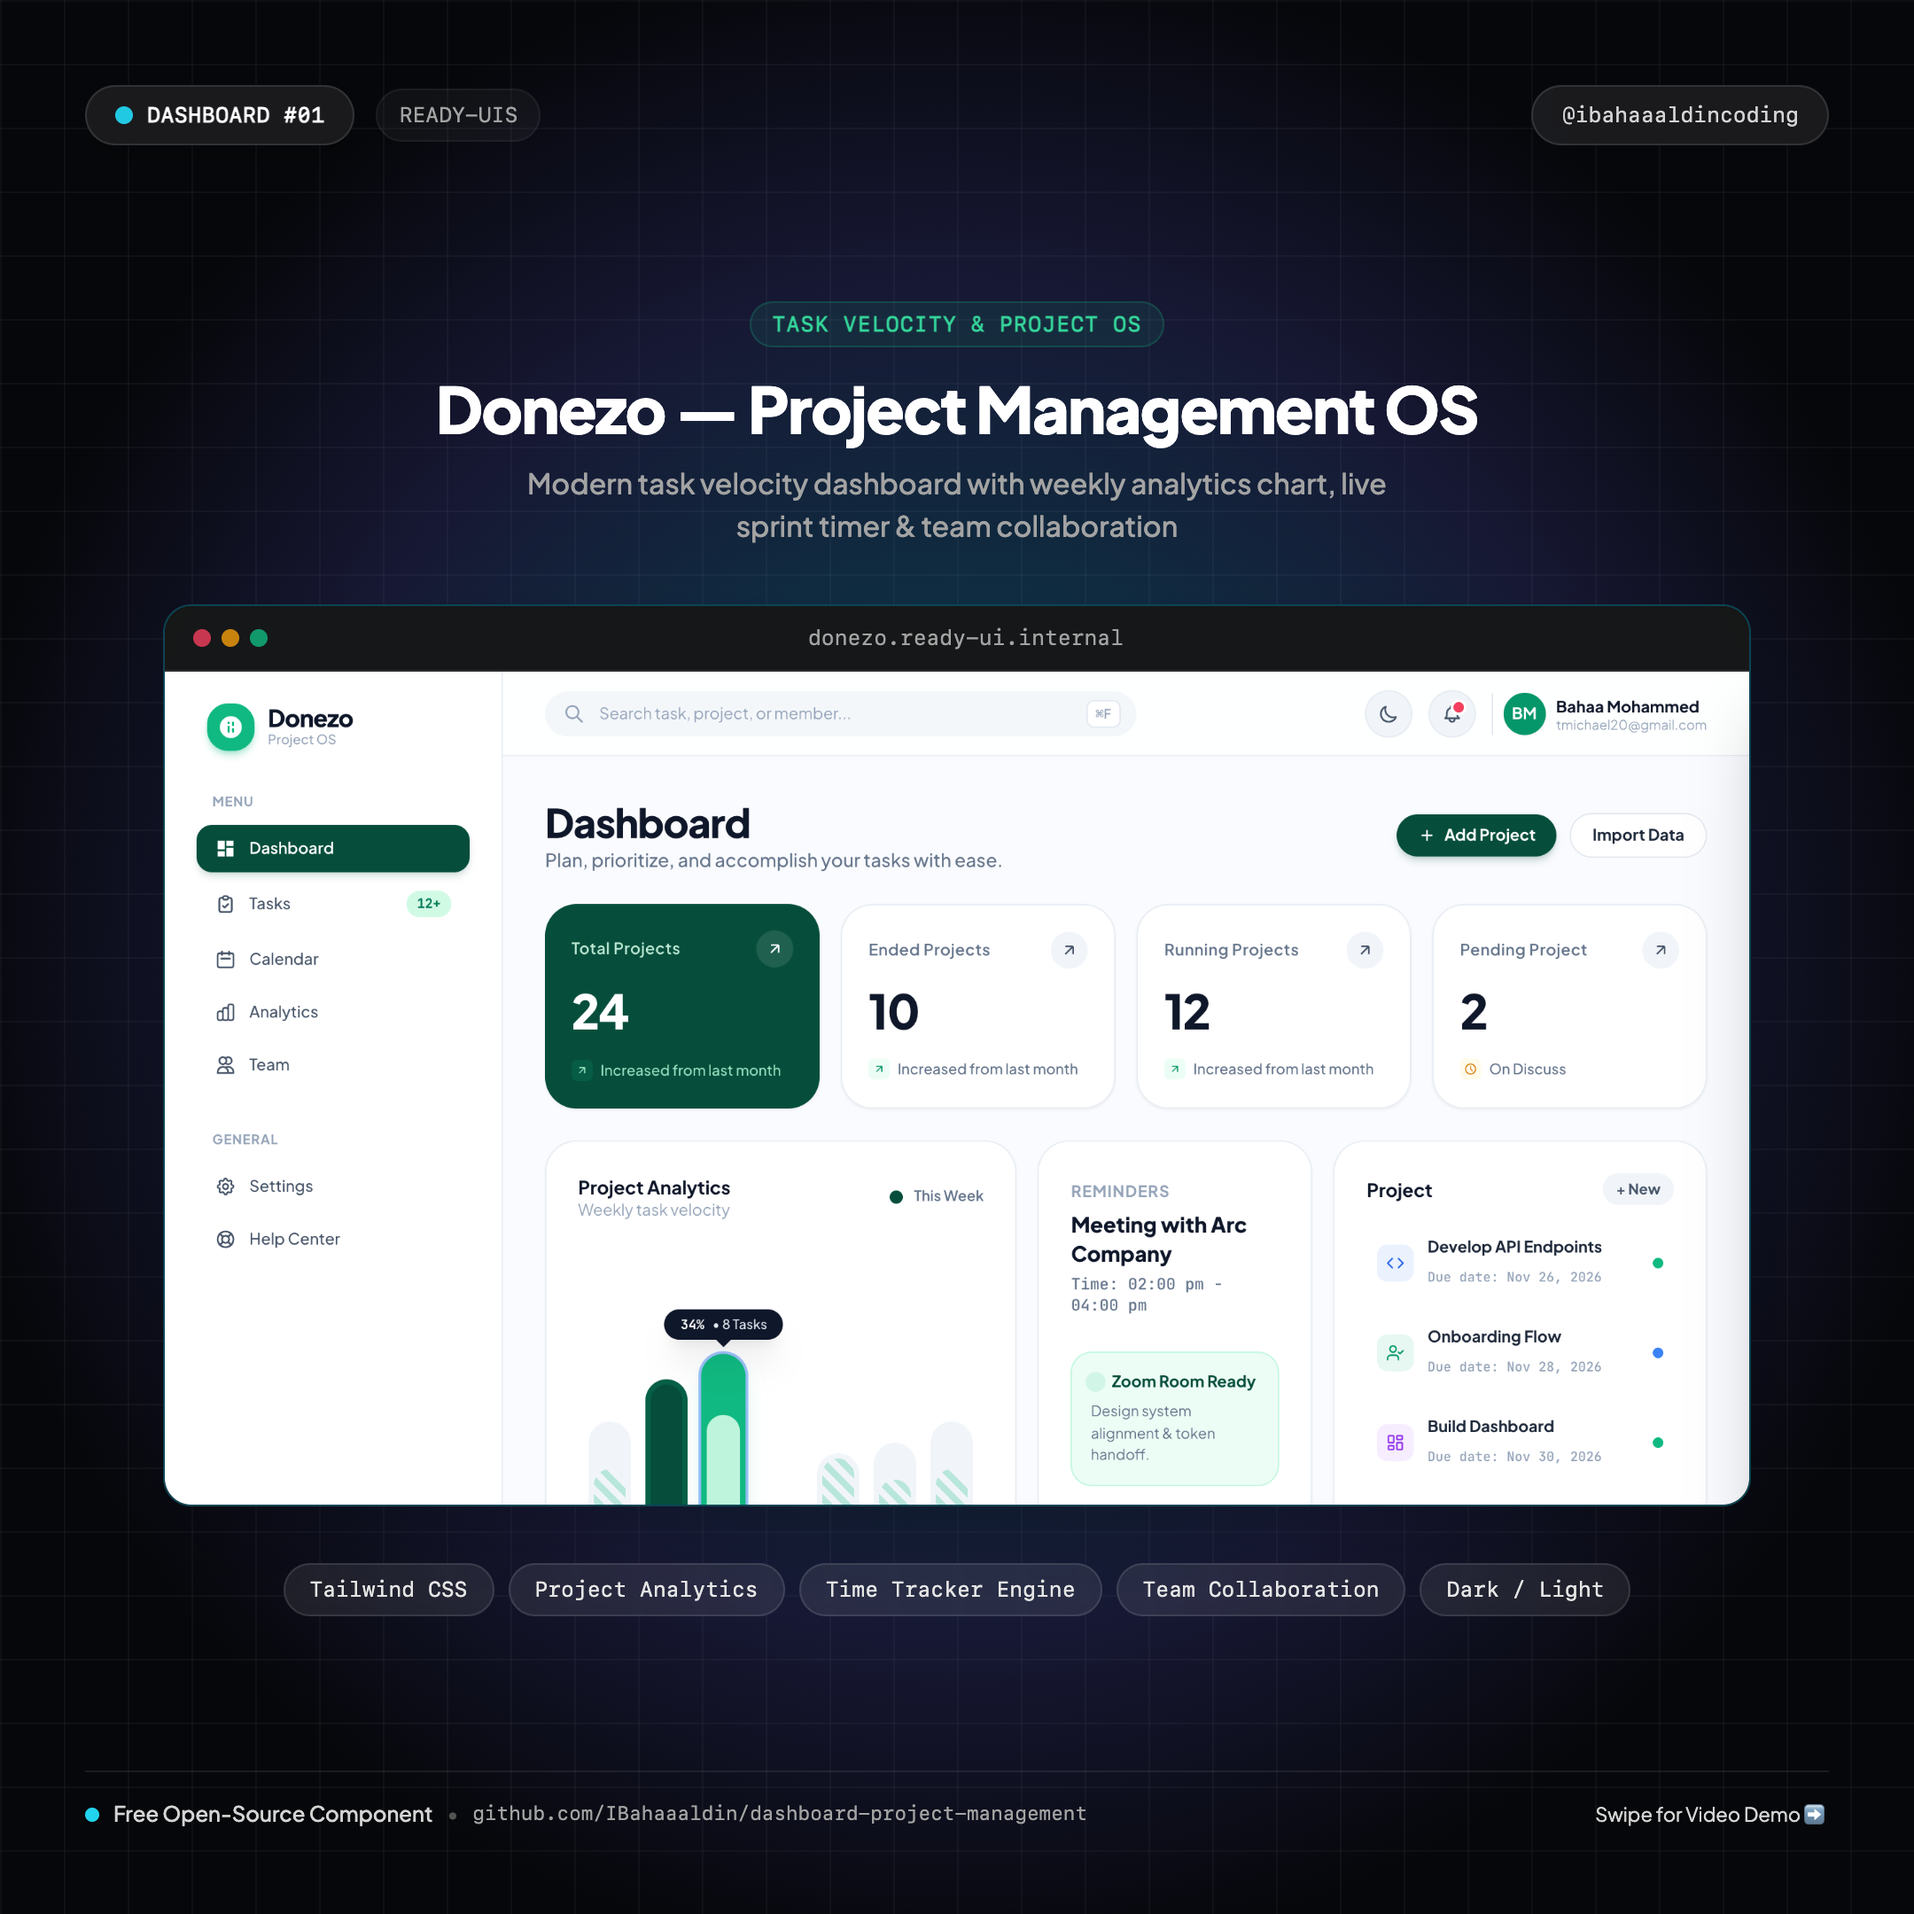
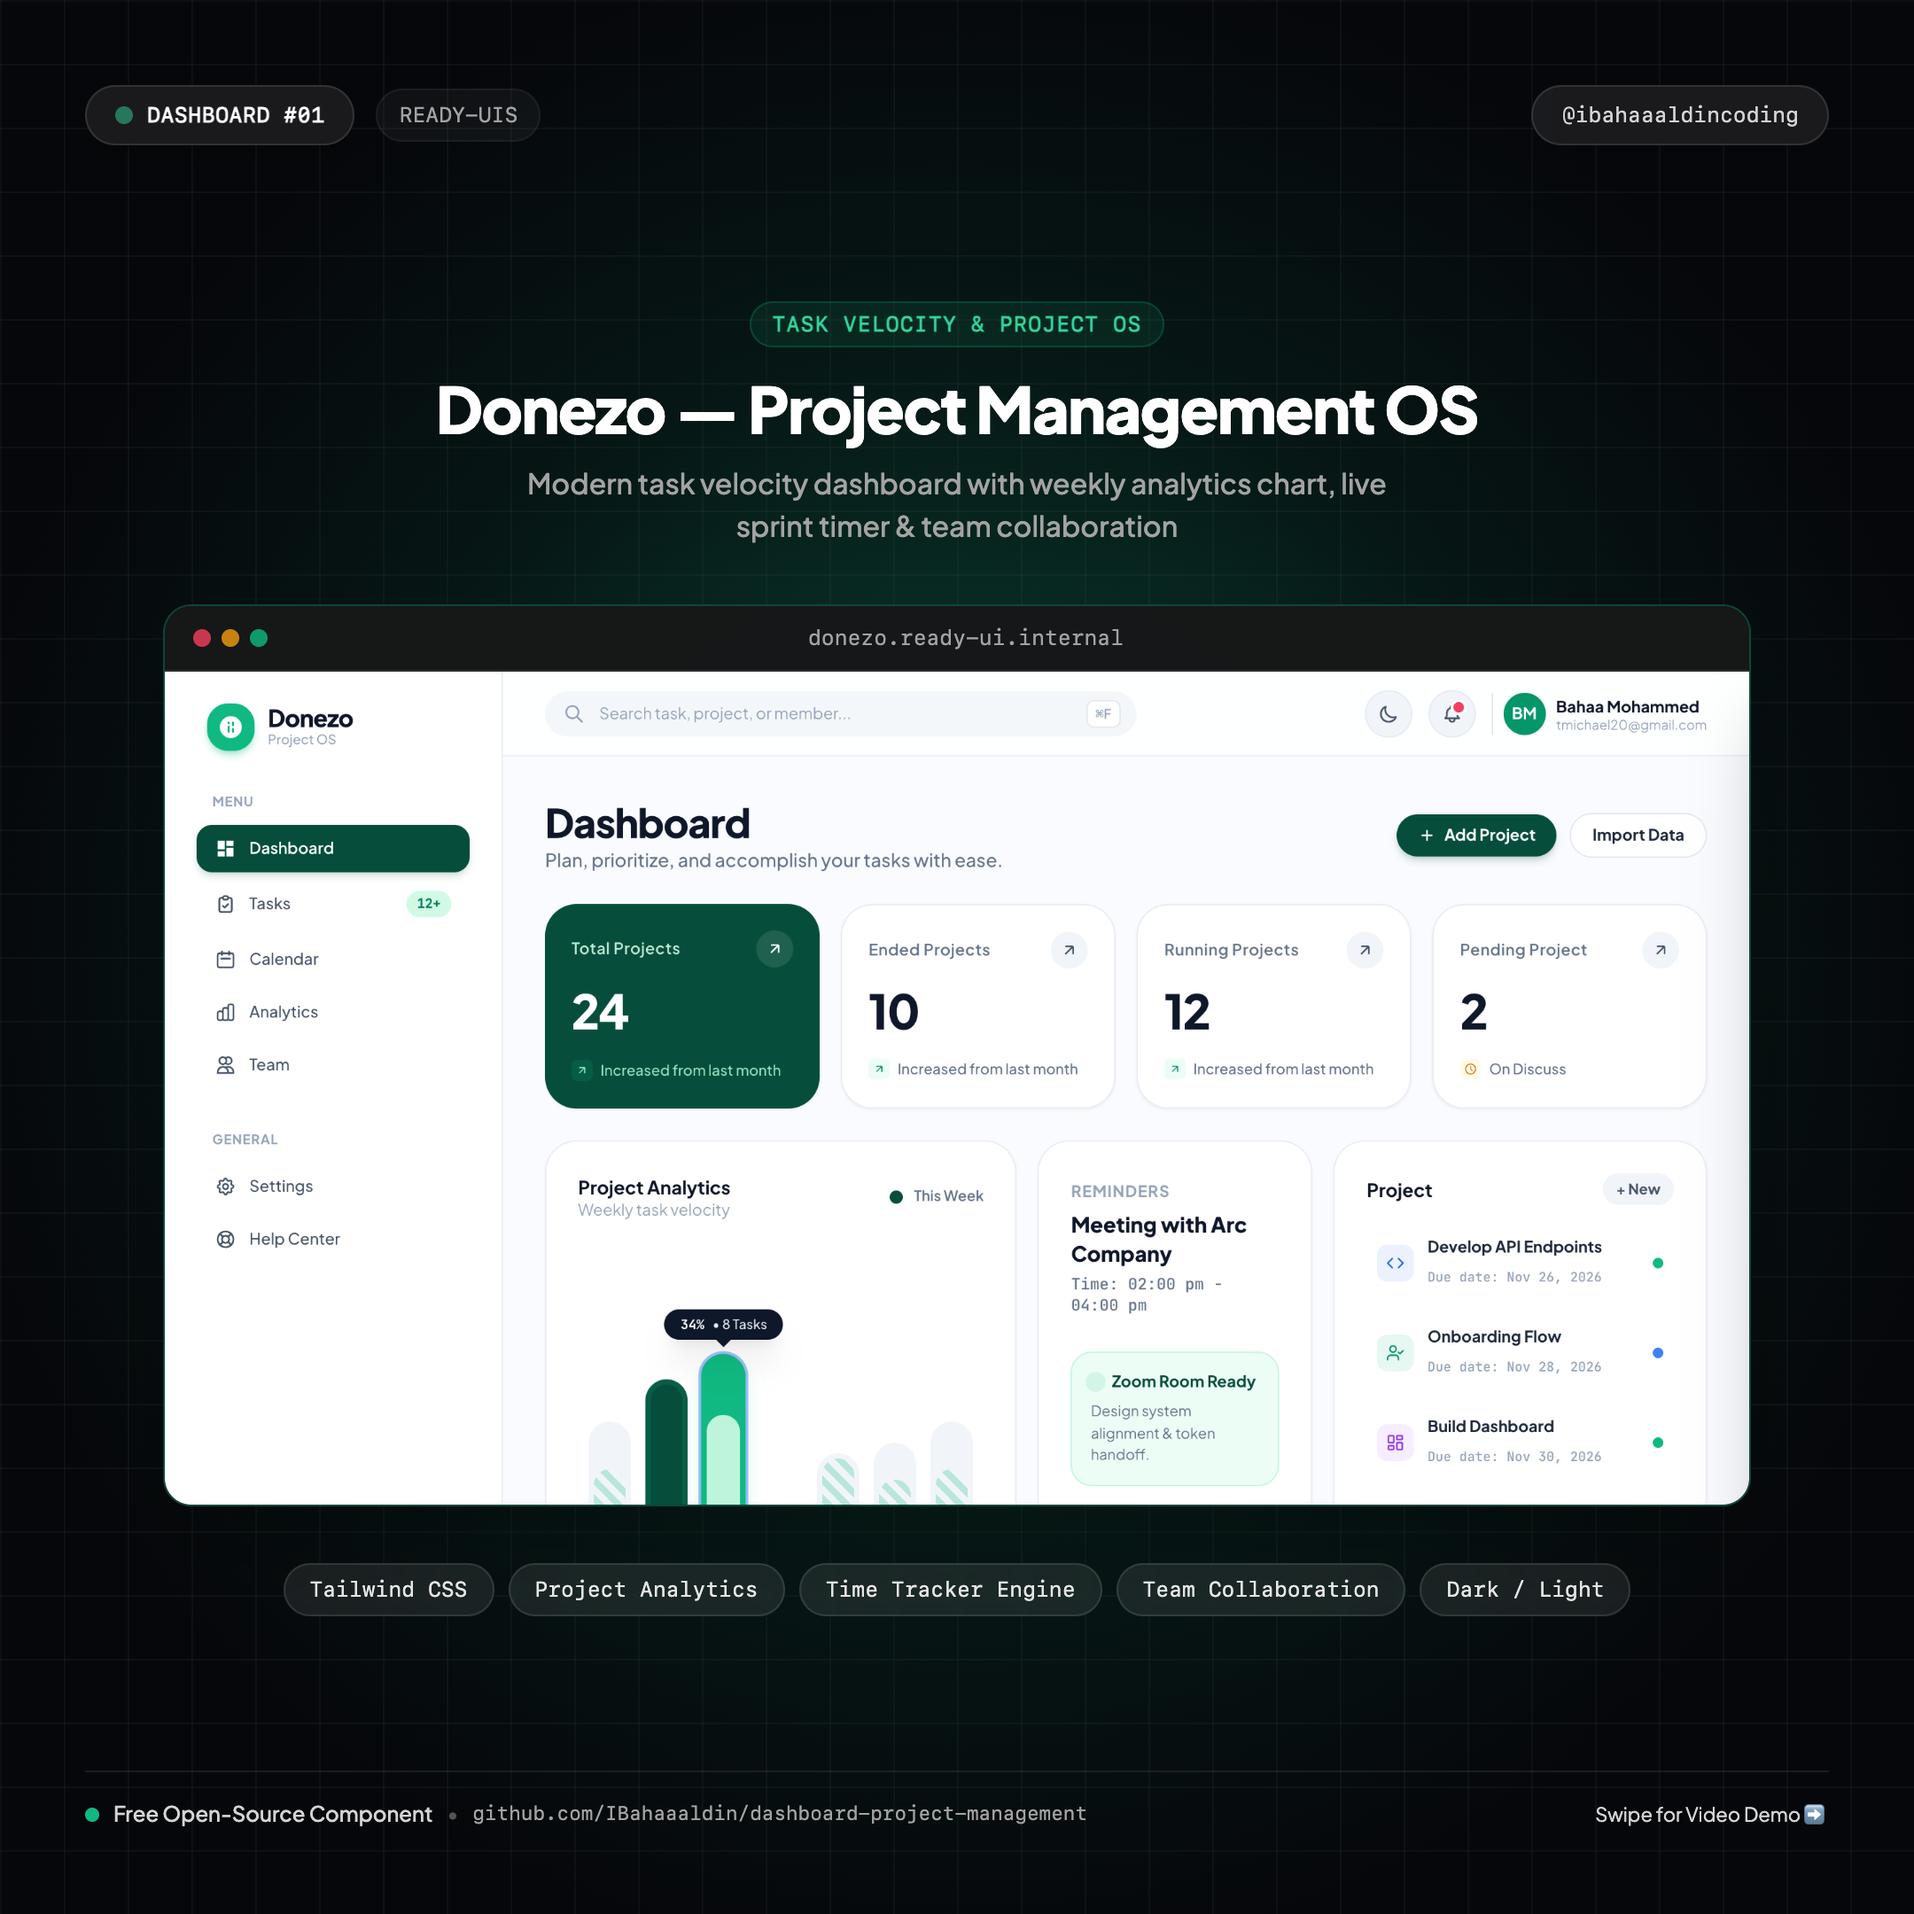
fix(covers): update covers with emerald theme and align documentation

Changed region(s): [[0.1551, 0.0931, 0.8685, 0.3412], [0.2481, 0.7755, 0.7444, 0.8995]]

diff --git a/README.md b/README.md
@@ -21,7 +21,7 @@
 
 ## ✨ Features & Micro-Interactions
 
-- **Floating Dribbble-Style Presentation Canvas**: Sits inside a generous rounded container (`rounded-[32px]`) with soft diffused drop-shadows and dark/light outer background.
+- **Full-Page Edge-to-Edge Architecture**: Engineered as a production-grade full-screen SaaS application with docked left navigation sidebar, sticky top header, and responsive multi-column bento grid.
 - **Persistent Left Navigation Sidebar**: Complete with "Donezo" logo, "MENU" items (Dashboard active pill, Tasks with `12+` badge, Calendar, Analytics, Team), "GENERAL" settings, bottom Mobile App promo card, and user profile badge.
 - **Top Command & Search Header**: Search input with keyboard shortcut pill (`⌘F`), notifications bell with alert beacon, and creator profile pill.
 - **4 Bento Key Metric Cards**: "Total Projects" (24, dark emerald highlighted card with arrow trigger), "Ended Projects" (10), "Running Projects" (12), and "Pending Project" (2, On Discuss).
